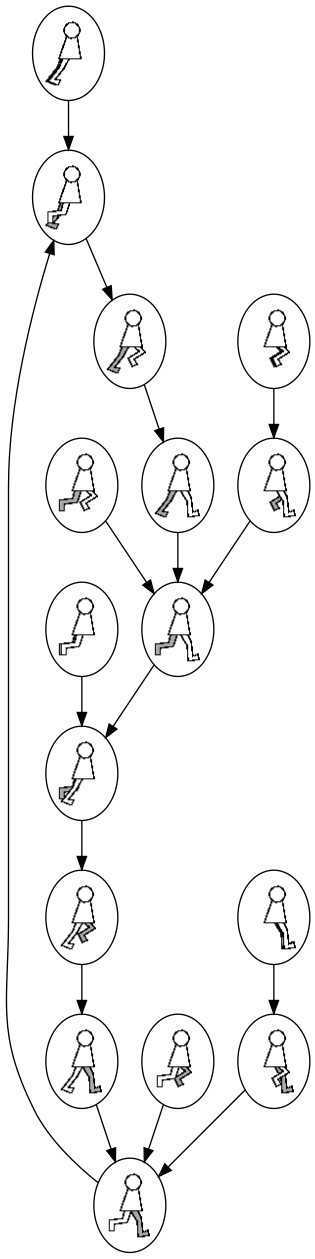
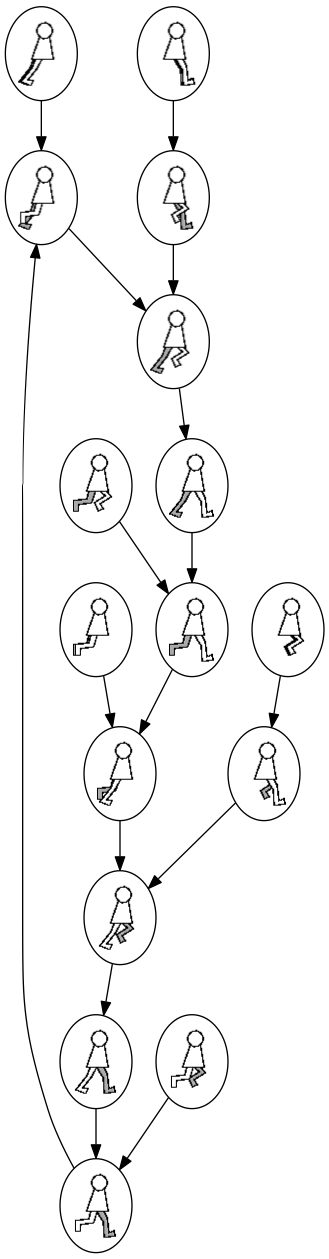
lite fina utskrifter

diff --git a/lab4/lab4.py b/lab4/lab4.py
@@ -1,5 +1,6 @@
 from random import randint
-from animate import draw
+from animate import draw as drawAnimate
+from cartoon import drawCartoon
 gamma = 0.8
 
 def argmax(f, args):
@@ -29,26 +30,9 @@ trans = ((1 , 3 , 4 , 12), #0
 		 (12, 14, 9 , 1 ), #13
 		 (15, 13, 10, 2 ), #14
 		 (14, 12, 11, 3 )) #15
-		
-rew = ((1 ,-2 , 1 ,-2), #0 
-	   (-1, 1 ,-3 ,-2), #1
-	   (1 , -1 ,-3 , -2), #2
-	   (-1 , -2 , 1 , -2), #3
-	   (-3,-2 , -1 , 1), #4
-	   (1 ,-3 , 1 ,-3), #5
-	   (1 ,-3 , 0 ,-3), #6
-	   (-3, 1 , -1 , 1), #7
-	   (-3, -2 , 1 , -1), #8
-	   (0 ,-3 , 1 ,-3), #9
-	   (1 ,-3 , 1 ,-3), #10
-	   (-3, 1 , 0 , -1), #11
-	   (1 , -2 , -1 , -2), #12
-	   (-1 , 0 ,-3 , 1), #13
-	   (0 , -1 ,-3 , 1), #14
-	   (-1 , -2 , -1 , -2)) #15
 	
 rew = (
-    ( 0,-1, 0,-1), #0 
+      ( 0,-1, 0,-1), #0 
 	  ( 0, 0,-5,-9), #1
 	  ( 0, 0,-5,-1), #2
 	  ( 0,-1, 0,-1), #3
@@ -59,17 +43,32 @@ rew = (
 	  (-5,-1, 0, 0), #8
 	  ( 0,-5, 0,-5), #9
 	  ( 0,-5, 0,-5), #10
-	  (-5,-1, 0, 0), #11
+	  (-5, 1, 0, 0), #11
 	  ( 0,-1, 0,-1), #12
 	  ( 0, 0,-5, 1), #13
-	  ( 0, 0,-5,-1), #14
+	  ( 0, 0,-5, 1), #14
 	  ( 0,-1, 0,-1) #15
      )
 
+class Environment:
+	global trans, rew
+	def init(self, state = 0):
+		self.state = state
+		self.trans = trans
+		self.rew = rew
+	def go(self, a):
+		r = self.rew[self.state][a]
+		self.state = self.trans[self.state][a]
+		return self.state, r
+
 def policyIteration():
+  print "PolicyIteration gamma: ", gamma
+  print "State\t  Trans   \t\t    Reward"
+  for i in range(len(trans)):
+	print i,": \t",trans[i], "   \t ", rew[i]
+
   policy = [None for s in trans]
   value = [0 for s in trans]
-  
   for p in range(100):
     for s in range(len(policy)):
       policy[s] = argmax(
@@ -79,28 +78,33 @@ def policyIteration():
     for s in range(len(value)):
       a = policy[s]
       value[s] = rew[s][a] + gamma * value[trans[s][a]]
-  print_dot(policy)	
-  state = randint(0,len(trans)-1)
+  print_dot(policy, "policyIteration.dot")	
+  state = 3 #randint(0,len(trans)-1)
   sequence = [state]
-  for i in range(16):
+  for i in range(7):
     state = trans[state][policy[state]]
     sequence.append(state)
-  draw(sequence)
+  drawAnimate(sequence)
+  drawCartoon(sequence) 
 
-def print_dot(policy):
-  print "digraph{"
+
+
+def print_dot(policy, filename="graph.dot"):
+  f = open(filename, 'w')
+  f.write("digraph{\n")
   for i in range(len(policy)):
-    print i, "[label=\"\", image=\"step%d.png\"];" % (i+1)
+    f.write("%d [label=\"\", image=\"step%d.png\"];\n" % (i,i+1))
   for i in range(len(policy)):
-    print i, " -> ", trans[i][policy[i]], ";"
-  print "}"
+    f.write("%d -> %d;\n" % (i, trans[i][policy[i]]))
+  f.write("}\n")
+  f.close()
 
 
 
 def main():
-# print "+++++++++++++++++++++++++++++++++++++++++++++++++++\n\tLab 4 - Machine learning (DD2431)\n\t Viktor Collin <vcollin@kth.se>\n\t Simon Osterman <simost@kth.se>"
+  print "+++++++++++++++++++++++++++++++++++++++++++++++++++\n\tLab 4 - Machine learning (DD2431)\n\t Viktor Collin <vcollin@kth.se>\n\t Simon Osterman <simost@kth.se>\n+++++++++++++++++++++++++++++++++++++++++++++++++++"
   policyIteration();
-# print "+++++++++++++++++++++++++++++++++++++++++++++++++++"
+  print "+++++++++++++++++++++++++++++++++++++++++++++++++++"
   
 
 

diff --git a/lab4/cartoon.py b/lab4/cartoon.py
@@ -1,26 +1,26 @@
 import numpy
 import pylab
 
-test = (0, 1, 3, 2, 5, 2)
+def drawCartoon(sequence):
 
-images = (pylab.imread('step1.png'),
-          pylab.imread('step2.png'),
-          pylab.imread('step3.png'),
-          pylab.imread('step4.png'),
-          pylab.imread('step5.png'),
-          pylab.imread('step6.png'),
-          pylab.imread('step7.png'),
-          pylab.imread('step8.png'),
-          pylab.imread('step9.png'),
-          pylab.imread('step10.png'),
-          pylab.imread('step11.png'),
-          pylab.imread('step12.png'),
-          pylab.imread('step13.png'),
-          pylab.imread('step14.png'),
-          pylab.imread('step15.png'),
-          pylab.imread('step16.png'))
+	images = (pylab.imread('step1.png'),
+          	  pylab.imread('step2.png'),
+          	  pylab.imread('step3.png'),
+          	  pylab.imread('step4.png'),
+          	  pylab.imread('step5.png'),
+          	  pylab.imread('step6.png'),
+          	  pylab.imread('step7.png'),
+          	  pylab.imread('step8.png'),
+          	  pylab.imread('step9.png'),
+          	  pylab.imread('step10.png'),
+          	  pylab.imread('step11.png'),
+          	  pylab.imread('step12.png'),
+          	  pylab.imread('step13.png'),
+          	  pylab.imread('step14.png'),
+          	  pylab.imread('step15.png'),
+          	  pylab.imread('step16.png'))
 
-comic = numpy.concatenate([images[i] for i in test], axis=1)
+	comic = numpy.concatenate([images[i] for i in sequence], axis=1)
 
-pylab.imshow(comic)
-pylab.show()
+	pylab.imshow(comic)
+	pylab.show()

diff --git a/lab4/animate.py b/lab4/animate.py
@@ -16,7 +16,7 @@ def do_animation(currentframe):
                 do_image()
                 wrap.update_idletasks()
         currentframe = currentframe + 1
-        root.after(1000, do_animation, currentframe)
+        root.after(300, do_animation, currentframe)
 
 def draw(stateSequence):
     global wrap,frame,root
